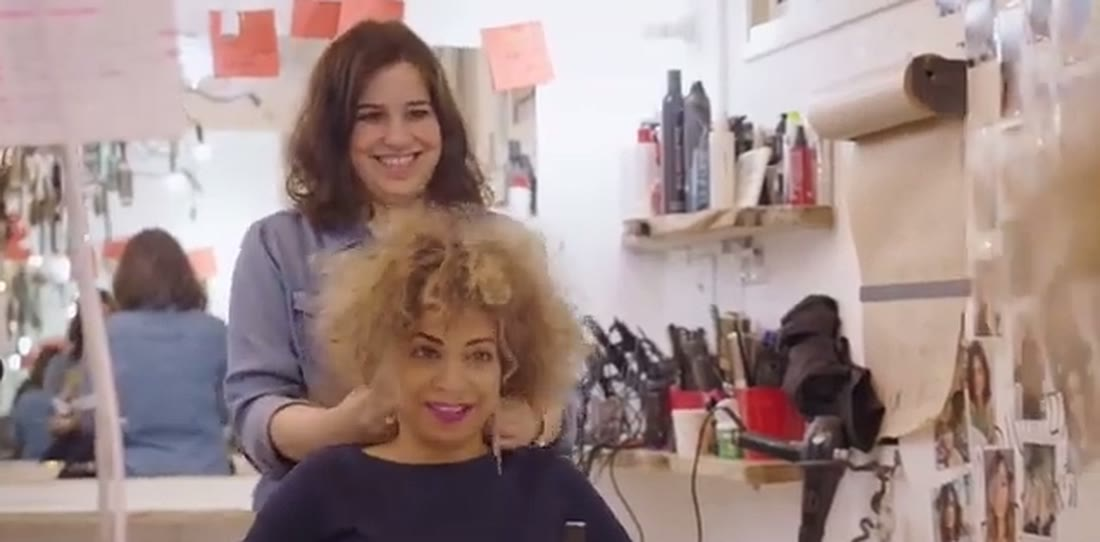
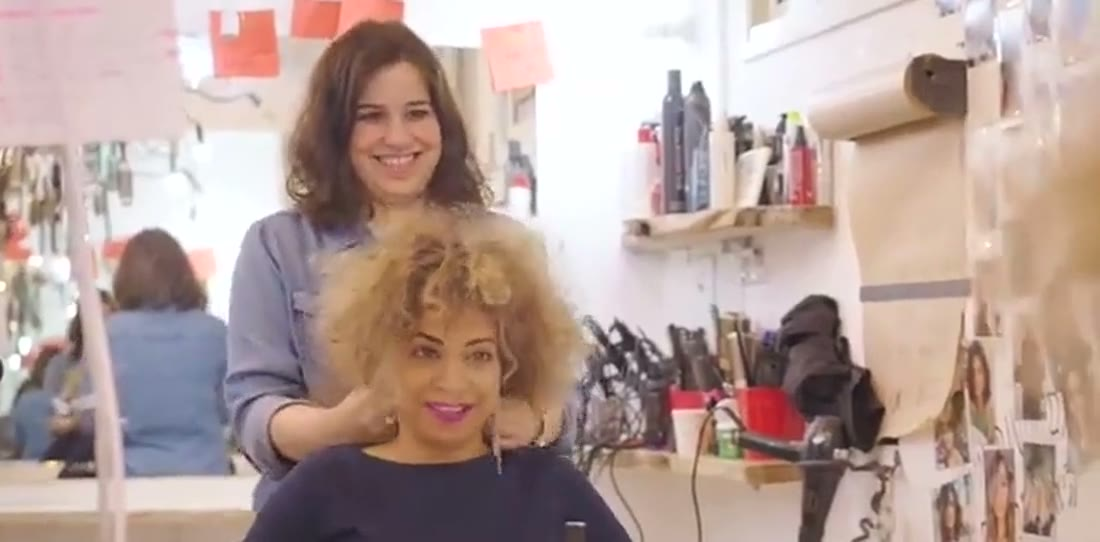
עיצוב מחדש של ההירו - תמה בהירה תואמת peot.org.il
- מעבר מכהה לבהיר: רקע ורוד-פודרה אוורירי כמו האתר
- הטקסט למעלה על veil ורוד, פני האישה נחשפים בהיר מתחת (פתרון החפיפה)
- סרטון מובהר (eq: gamma/brightness/saturation)
- כפתורים בסגנון האתר: פיל מג'נטה עם חץ + קישור-טקסט עם לב וקו תחתון
- קווים זורמים דקים (מוטיב השיער), כותרות בורדו, הוסר sub-text מיותר

diff --git a/index.html b/index.html
@@ -21,33 +21,37 @@ html,body{margin:0;padding:0;background:#fff}
 .peot-donate p{margin:0 0 1em}
 .peot-donate h1,.peot-donate h2,.peot-donate h3{font-family:'Leon',-apple-system,'Segoe UI',Arial,sans-serif;color:var(--pd-dark);line-height:1.2;margin:0 0 .4em;font-weight:bold}
 .pd-wrap{max-width:1120px;margin:0 auto;padding:0 22px}
-.pd-btn{display:inline-block;background:var(--pd-pink);color:#fff !important;text-decoration:none;padding:16px 38px;border-radius:50px;font-size:1.05rem;font-weight:bold;transition:transform .2s ease,box-shadow .2s ease,background .2s ease;box-shadow:0 10px 24px rgba(196,29,114,.28);border:none;cursor:pointer}
-.pd-btn:hover{transform:translateY(-3px);box-shadow:0 16px 34px rgba(196,29,114,.4);background:#a8155f;color:#fff !important}
-.pd-btn-lg{padding:20px 52px;font-size:1.2rem}
+.pd-btn{display:inline-flex;align-items:center;gap:8px;background:var(--pd-pink);color:#fff !important;text-decoration:none;padding:16px 38px;border-radius:50px;font-size:1.05rem;font-weight:bold;transition:transform .2s ease,box-shadow .2s ease,background .2s ease;box-shadow:0 10px 26px rgba(196,29,114,.3);border:none;cursor:pointer}
+.pd-btn:hover{transform:translateY(-3px);box-shadow:0 16px 34px rgba(196,29,114,.42);background:#a8155f;color:#fff !important}
+.pd-btn-lg{padding:19px 46px;font-size:1.18rem}
+.pd-btn .pd-arr{display:inline-block;font-size:1.15em;line-height:1;transition:transform .2s ease}
+.pd-btn:hover .pd-arr{transform:translateX(-5px)}
 .pd-btn-ghost{background:transparent;color:var(--pd-pink) !important;border:2px solid var(--pd-pink);box-shadow:none}
 .pd-btn-ghost:hover{background:var(--pd-pink);color:#fff !important}
+.pd-link{display:inline-flex;align-items:center;gap:7px;color:var(--pd-pink);font-weight:bold;text-decoration:none;border-bottom:2px solid rgba(196,29,114,.4);padding-bottom:3px;transition:border-color .2s ease}
+.pd-link:hover{border-color:var(--pd-pink)}
 
-/* ===== HERO (video background) ===== */
-.pd-hero{position:relative;isolation:isolate;overflow:hidden;min-height:min(92vh,800px);display:flex;flex-direction:column;justify-content:flex-start;text-align:center;padding:clamp(64px,9vh,112px) 22px 60px;background:radial-gradient(120% 120% at 50% 0%,#5a0530 0%,var(--pd-dark) 55%,#23000f 100%);color:#fff}
+/* ===== HERO (light, video-reveal - matches peot.org.il) ===== */
+.pd-hero{position:relative;isolation:isolate;overflow:hidden;min-height:min(94vh,880px);display:flex;flex-direction:column;justify-content:flex-start;text-align:center;padding:clamp(50px,7vh,88px) 22px 60px;background:linear-gradient(180deg,#FDF4F8 0%,#FBEAF2 52%,#fff 100%)}
 .pd-hero-media{position:absolute;inset:0;z-index:0;overflow:hidden;pointer-events:none}
-.pd-hero-video{position:absolute;inset:0;width:100%;height:100%;object-fit:cover;object-position:center 58%;
-  -webkit-mask-image:linear-gradient(to bottom,transparent 0,#000 12%,#000 85%,transparent 100%);
-  mask-image:linear-gradient(to bottom,transparent 0,#000 12%,#000 85%,transparent 100%)}
+.pd-hero-video{position:absolute;inset:0;width:100%;height:100%;object-fit:cover;object-position:center 60%;
+  -webkit-mask-image:linear-gradient(to bottom,transparent 0,#000 14%,#000 88%,transparent 100%);
+  mask-image:linear-gradient(to bottom,transparent 0,#000 14%,#000 88%,transparent 100%)}
 .pd-hero-media:after{content:"";position:absolute;inset:0;background:
-  linear-gradient(to bottom,rgba(35,0,15,.9) 0%,rgba(35,0,15,.66) 24%,rgba(54,0,28,.4) 42%,rgba(54,0,28,.15) 60%,rgba(54,0,28,.1) 74%,rgba(35,0,15,.4) 90%,rgba(35,0,15,.72) 100%),
-  radial-gradient(120% 78% at 50% 4%,rgba(196,29,114,.28),transparent 62%)}
-.pd-hero:before{content:"";position:absolute;inset:0;z-index:1;background:radial-gradient(56% 62% at 80% 14%,rgba(196,29,114,.34),transparent 60%),radial-gradient(48% 54% at 15% 10%,rgba(196,29,114,.22),transparent 60%);pointer-events:none}
+  linear-gradient(to bottom,rgba(253,244,248,.97) 0%,rgba(253,244,248,.93) 18%,rgba(251,234,242,.72) 33%,rgba(251,234,242,.22) 49%,rgba(251,234,242,.05) 65%,rgba(251,234,242,.12) 78%,rgba(253,244,248,.46) 92%,rgba(253,244,248,.74) 100%),
+  radial-gradient(120% 66% at 50% 0%,rgba(196,29,114,.1),transparent 62%)}
+.pd-hero-deco{position:absolute;top:0;left:0;width:100%;height:46%;z-index:1;pointer-events:none;opacity:.6}
 .pd-hero-inner{position:relative;z-index:2;max-width:840px;margin:0 auto}
-.pd-eyebrow{display:inline-block;font-size:.95rem;letter-spacing:.04em;color:#fbd6e8;background:rgba(255,255,255,.1);border:1px solid rgba(255,255,255,.22);padding:7px 20px;border-radius:50px;margin-bottom:26px;backdrop-filter:blur(4px)}
-.pd-hero h1{color:#fff;font-size:clamp(2.1rem,5.5vw,3.7rem);margin-bottom:.3em;text-shadow:0 2px 30px rgba(35,0,15,.5)}
-.pd-hero h1 span{color:#ffb3d7}
-.pd-lead{font-size:clamp(1.1rem,2.4vw,1.42rem);color:#f6e3ec;max-width:680px;margin:0 auto 2em;text-shadow:0 1px 16px rgba(35,0,15,.55)}
-.pd-hero-sub{font-size:1rem;color:#e6c4d6;margin-top:1.5em;text-shadow:0 1px 12px rgba(35,0,15,.6)}
-.pd-scroll{position:absolute;left:50%;bottom:22px;transform:translateX(-50%);z-index:2;color:#f7c9e0;font-size:1.6rem;line-height:1;animation:pdBounce 2.2s ease-in-out infinite;opacity:.8}
+.pd-eyebrow{display:inline-block;font-size:.9rem;letter-spacing:.05em;color:var(--pd-pink);background:rgba(196,29,114,.07);border:1px solid rgba(196,29,114,.24);padding:7px 20px;border-radius:50px;margin-bottom:22px;font-weight:bold}
+.pd-hero h1{color:var(--pd-dark);font-size:clamp(2.1rem,5.6vw,3.8rem);margin-bottom:.28em;text-shadow:0 1px 14px rgba(255,255,255,.55)}
+.pd-hero h1 span{color:var(--pd-pink)}
+.pd-lead{font-size:clamp(1.1rem,2.4vw,1.42rem);color:#6b3a52;max-width:660px;margin:0 auto 1.7em;text-shadow:0 1px 10px rgba(255,255,255,.75)}
+.pd-hero-cta{display:flex;flex-wrap:wrap;gap:14px 22px;justify-content:center;align-items:center}
+.pd-scroll{position:absolute;left:50%;bottom:18px;transform:translateX(-50%);z-index:2;color:var(--pd-pink);font-size:1.5rem;line-height:1;animation:pdBounce 2.2s ease-in-out infinite;opacity:.7}
 @keyframes pdBounce{0%,100%{transform:translate(-50%,0)}50%{transform:translate(-50%,8px)}}
 @media(prefers-reduced-motion:reduce){
   .pd-hero-video{display:none}
-  .pd-hero-media{background:center 30%/cover no-repeat url('peot-hero-poster.jpg')}
+  .pd-hero-media{background:center 55%/cover no-repeat url('peot-hero-poster.jpg')}
   .pd-scroll{animation:none}
 }
 
@@ -102,9 +106,9 @@ html,body{margin:0;padding:0;background:#fff}
 .pd-secure{display:inline-flex;align-items:center;gap:8px;margin-top:16px;font-size:.95rem;color:#e6c4d6}
 
 @media(max-width:900px){
-  .pd-hero{min-height:88vh;padding:clamp(56px,8vh,90px) 20px 54px}
-  .pd-hero-video{object-position:center 46%}
-  .pd-hero-media:after{background:linear-gradient(to bottom,rgba(35,0,15,.84) 0%,rgba(35,0,15,.6) 34%,rgba(54,0,28,.36) 60%,rgba(35,0,15,.56) 84%,rgba(35,0,15,.82) 100%),radial-gradient(120% 70% at 50% 2%,rgba(196,29,114,.28),transparent 60%)}
+  .pd-hero{min-height:90vh;padding:clamp(44px,6vh,72px) 20px 54px}
+  .pd-hero-video{object-position:center 52%}
+  .pd-hero-media:after{background:linear-gradient(to bottom,rgba(253,244,248,.96) 0%,rgba(253,244,248,.9) 24%,rgba(251,234,242,.6) 44%,rgba(251,234,242,.15) 62%,rgba(251,234,242,.2) 80%,rgba(253,244,248,.62) 100%),radial-gradient(120% 60% at 50% 0%,rgba(196,29,114,.09),transparent 60%)}
 }
 @media(max-width:600px){.peot-donate{font-size:17px}.pd-sec{padding:60px 0}.pd-value,.pd-final{padding:48px 24px;border-radius:22px}}
 </style>
@@ -116,12 +120,18 @@ html,body{margin:0;padding:0;background:#fff}
       <source src="peot-hero.mp4" type="video/mp4">
     </video>
   </div>
+  <svg class="pd-hero-deco" viewBox="0 0 1440 320" preserveAspectRatio="none" aria-hidden="true">
+    <path d="M-40,150 C 280,40 480,250 760,140 S 1180,30 1480,160" fill="none" stroke="#C41D72" stroke-width="1.4" opacity=".32"/>
+    <path d="M-40,205 C 320,110 520,300 820,190 S 1220,80 1480,210" fill="none" stroke="#C41D72" stroke-width="1" opacity=".2"/>
+  </svg>
   <div class="pd-hero-inner">
     <span class="pd-eyebrow">עמותת שערות בסערות</span>
     <h1>בזכותך, היא נשארת <span>היא</span>.</h1>
     <p class="pd-lead">כל תרומה הופכת לפאה רפואית איכותית מהשיער הטבעי של אישה המתמודדת עם סרטן - ולרגע של ביטחון וכוח בתוך הסערה.</p>
-    <a class="pd-btn pd-btn-lg" href="https://meshulam.co.il/purchase?b=880c19ce665901b0c4dc4552e6083228" target="_blank" rel="noopener">לתרומה שמחזירה חיים</a>
-    <p class="pd-hero-sub">תרומה חד-פעמית או הוראת קבע חודשית - כל סכום, לפי היכולת שלך.</p>
+    <div class="pd-hero-cta">
+      <a class="pd-btn pd-btn-lg" href="https://meshulam.co.il/purchase?b=880c19ce665901b0c4dc4552e6083228" target="_blank" rel="noopener">לתרומה שמחזירה חיים <span class="pd-arr">←</span></a>
+      <a class="pd-link" href="https://meshulam.co.il/purchase?b=880c19ce665901b0c4dc4552e6083228" target="_blank" rel="noopener">♡ לתרומה חודשית קבועה</a>
+    </div>
   </div>
   <div class="pd-scroll" aria-hidden="true">⌄</div>
 </section>